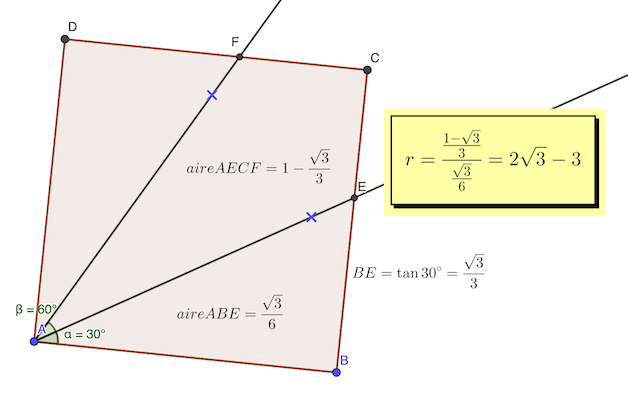
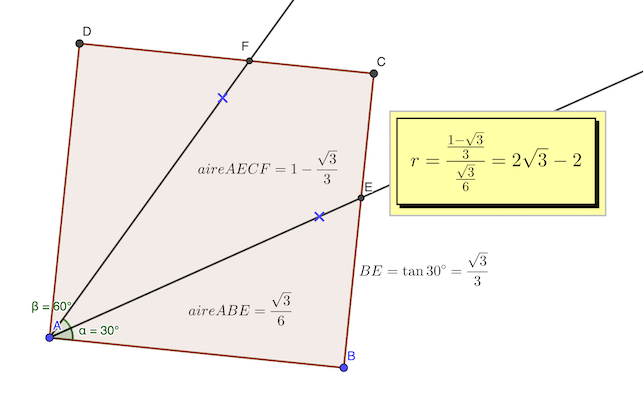
relecture

diff --git a/readme.py b/readme.py
@@ -88,12 +88,19 @@ def create_month(month, year=2021):
                 total_month += 1
 
                 p = Path(month_norm) / f"{d.day:02d}.py"
-                if p.exists():
-                    cols.append(f"[{d.day}]({p}) ⚙")
+
+                if p.exists() and d.day in solutions:
+                    cols.append(f"[{d.day:2d}]({solutions_md}#{d.day}-{month_lower}) [🎮]({p})")
                     done_month += 1
+
+                elif p.exists():
+                    cols.append(f"{d.day:2d} [🎮]({p})")
+                    done_month += 1
+
                 elif d.day in solutions:
-                    cols.append(f"[{d.day}]({solutions_md}#{d.day}-{month_lower})")
+                    cols.append(f"[{d.day:2d}]({solutions_md}#{d.day}-{month_lower})")
                     done_month += 1
+
                 else:
                     cols.append(f"{d.day:2d}")
 

diff --git a/README.md b/README.md
@@ -14,22 +14,31 @@ Chaque semaine, le CNRS propose un de ces défis: [Défis du calendrier mathéma
 
 |Lundi|Mardi|Mercredi|Jeudi|Vendredi|Samedi|Dimanche|
 |---|---|---|---|---|---|---|
-|    |    |    |    | [1](janvier/01.py) ⚙ | *2* | *3* |
-| [4](janvier/README.md#4-janvier) | [5](janvier/05.py) ⚙ | [6](janvier/README.md#6-janvier) | [7](janvier/README.md#7-janvier) | [8](janvier/08.py) ⚙ | *9* | *10* |
-| [11](janvier/README.md#11-janvier) | [12](janvier/README.md#12-janvier) | [13](janvier/README.md#13-janvier) | [14](janvier/14.py) ⚙ | [15](janvier/15.py) ⚙ | *16* | *17* |
-| [18](janvier/README.md#18-janvier) | [19](janvier/README.md#19-janvier) | [20](janvier/README.md#20-janvier) | [21](janvier/21.py) ⚙ | [22](janvier/22.py) ⚙ | *23* | *24* |
-| [25](janvier/README.md#25-janvier) | [26](janvier/README.md#26-janvier) | [27](janvier/27.py) ⚙ | [28](janvier/README.md#28-janvier) | [29](janvier/README.md#29-janvier) | *30* | *31* |
+|    |    |    |    | [ 1](janvier/README.md#1-janvier) [🎮](janvier/01.py) | *2* | *3* |
+| [ 4](janvier/README.md#4-janvier) | [ 5](janvier/README.md#5-janvier) [🎮](janvier/05.py) | [ 6](janvier/README.md#6-janvier) | [ 7](janvier/README.md#7-janvier) |  8 [🎮](janvier/08.py) | *9* | *10* |
+| [11](janvier/README.md#11-janvier) | [12](janvier/README.md#12-janvier) | [13](janvier/README.md#13-janvier) | 14 [🎮](janvier/14.py) | [15](janvier/README.md#15-janvier) [🎮](janvier/15.py) | *16* | *17* |
+| [18](janvier/README.md#18-janvier) | [19](janvier/README.md#19-janvier) | [20](janvier/README.md#20-janvier) | 21 [🎮](janvier/21.py) | 22 [🎮](janvier/22.py) | *23* | *24* |
+| [25](janvier/README.md#25-janvier) | [26](janvier/README.md#26-janvier) | 27 [🎮](janvier/27.py) | [28](janvier/README.md#28-janvier) | [29](janvier/README.md#29-janvier) | *30* | *31* |
+### Avril (6/22)
+
+|Lundi|Mardi|Mercredi|Jeudi|Vendredi|Samedi|Dimanche|
+|---|---|---|---|---|---|---|
+|    |    |    | [ 1](avril/README.md#1-avril) | [ 2](avril/README.md#2-avril) | *3* | *4* |
+|  5 |  6 |  7 |  8 |  9 | *10* | *11* |
+| 12 | 13 | 14 | [15](avril/README.md#15-avril) | 16 | *17* | *18* |
+| 19 | 20 | 21 | 22 | 23 | *24* | *25* |
+| 26 | 27 | [28](avril/README.md#28-avril) | 29 [🎮](avril/29.py) | [30](avril/README.md#30-avril) |    |    |
 ### Juin (21/22)
 
 |Lundi|Mardi|Mercredi|Jeudi|Vendredi|Samedi|Dimanche|
 |---|---|---|---|---|---|---|
-|    | [1](juin/README.md#1-juin) | [2](juin/README.md#2-juin) | [3](juin/README.md#3-juin) | [4](juin/README.md#4-juin) | *5* | *6* |
-| [7](juin/07.py) ⚙ | [8](juin/README.md#8-juin) | [9](juin/09.py) ⚙ | 10 | [11](juin/11.py) ⚙ | *12* | *13* |
-| [14](juin/README.md#14-juin) | [15](juin/15.py) ⚙ | [16](juin/README.md#16-juin) | [17](juin/17.py) ⚙ | [18](juin/README.md#18-juin) | *19* | *20* |
-| [21](juin/README.md#21-juin) | [22](juin/README.md#22-juin) | [23](juin/23.py) ⚙ | [24](juin/README.md#24-juin) | [25](juin/25.py) ⚙ | *26* | *27* |
+|    | [ 1](juin/README.md#1-juin) | [ 2](juin/README.md#2-juin) | [ 3](juin/README.md#3-juin) | [ 4](juin/README.md#4-juin) | *5* | *6* |
+|  7 [🎮](juin/07.py) | [ 8](juin/README.md#8-juin) |  9 [🎮](juin/09.py) | 10 | 11 [🎮](juin/11.py) | *12* | *13* |
+| [14](juin/README.md#14-juin) | 15 [🎮](juin/15.py) | [16](juin/README.md#16-juin) | 17 [🎮](juin/17.py) | [18](juin/README.md#18-juin) | *19* | *20* |
+| [21](juin/README.md#21-juin) | [22](juin/README.md#22-juin) | 23 [🎮](juin/23.py) | [24](juin/README.md#24-juin) | 25 [🎮](juin/25.py) | *26* | *27* |
 | [28](juin/README.md#28-juin) | [29](juin/README.md#29-juin) | [30](juin/README.md#30-juin) |    |    |    |    |
 
 ### Avancement
 
-Nombre de solutions: 42 / 261
+Nombre de solutions: 48 / 261
 

diff --git a/juin/README.md b/juin/README.md
@@ -62,9 +62,9 @@ L'aire d'un carré est 1 cm², l'aire d'un triangle √3/4 cm².
 
 L'hexagone est donc constitué quatre triangles et trois carrés.
 
-aire = `4 x √3/4 + 1`
+aire = `4 x √3/4 + 3 × 1`
 
-> réponse: 1 + √3 cm²
+> réponse: 3 + √3 cm²
 
 ## 8 Juin
 
@@ -72,7 +72,7 @@ aire = `4 x √3/4 + 1`
 
 Toutes les autres façons sont similaires à une rotation ou une symétrique près.
 
-> réponse: 4
+> réponse: 4 (ou 4×7=28 en tenant compte des symétries)
 
 
 
@@ -93,11 +93,11 @@ La "petite" diagonale fait 4m.
 Pour un carré de côté a, la formule de cette "petite" diagonale est:
 `√(a² + (a/2)²) = a × √(1+1/4) = a × √5 / 2`
 
-Ici `a = 4 / (2 / √5) = 2 √5 m²`.
+Ici `a = 4 / (√5 / 2) = 8 / √5 m`.
 
-La surface de la piscine est donc: `5 a² = 5 × (2 √5)² = 5 × 4 × 5 = 100 m²`
+La surface de la piscine est donc: `5 a² = 5 × (8 / √5)² = 5 × 8² / 5 = 64 m²`
 
-> réponse: 100 m²
+> réponse: 64 m²
 
 
 ## 18 Juin
@@ -116,9 +116,14 @@ D'où: `5^(1/5) < 2^(1/2)`.
 
 ## 21 Juin
 
-Antoine peut mentir et Xavier dire la vérité. Aucun des deux engagements n'est rompu.
+Antoine peut mentir et Xavier dire la vérité. Aucune des deux déclarations n'est erronée:
+
+-  Antoine: « Quand je dis la vérité, toi aussi ». Si Antoine ment, Xavier peut faire ce qu'il veut.
+-  Xavier: « Quand je ments, toi aussi ». Si Xavier dit la vérité, Antoine peut mentir.
 
 > réponse: oui
+
+PS: problème mal formulé... la solution officielle e
 
 ## 22 Juin
 
@@ -129,7 +134,7 @@ Antoine peut mentir et Xavier dire la vérité. Aucun des deux engagements n'est
 - coefficient directeur (MP): -5
 - équation médiatrice (doit passer par M): `y = -5*(x-7.5)+7.5 = -5x + 5 * 7.5 + 7.5 = -5x+45`
 
-D'où les coordonnées du point P: (9, 0)  (solution de l'équation `-5x+45=0`)
+D'où les coordonnées du point P: (9, 0)  (solution de l'équation `-5x+45 = 0`)
 
 > réponse: 6 m
 
@@ -149,7 +154,7 @@ solve avec WolframAlpha de l'équation: x^4-2x^3-7x^2-2x+1=0
 
 ## 28 Juin
 
-La somme des anglets des sommets est 180°
+La somme des angles des sommets est 180°
 
 > réponse: `180°`
 

diff --git a/janvier/README.md b/janvier/README.md
@@ -1,5 +1,12 @@
 # Calendrier Mathématique Janvier 2021
 
+
+## 1 Janvier
+
+cf. [programme](01.py) Python
+
+> réponse: 9 nombres: {97, 37, 71, 73, 11, 13, 79, 17, 31}
+
 ## 4 Janvier
 
 _Mise en équation_
@@ -10,6 +17,12 @@ _Mise en équation_
 Calcul de la solution avec un [notebook](https://www.wolframalpha.com/input/?i=a%3D2+b%2Ca%3Dc%2B5%2Ca%2Bb%2Bc%3D70) WolframAlpha.
 
 > réponse: martina = 30, roger = 15, raphaël = 25
+
+## 5 Janvier
+
+Cf. [programme](05.py) Python.
+
+> réponse: p-n = -1
 
 ## 6 Janvier
 
@@ -106,6 +119,12 @@ De manière exhaustive:
 > réponse: Louis et Bernard
 
 
+## 15 Janvier
+
+cf. [programme](15.py) en Python
+
+> réponse: 1/1 + 1/2021
+
 ## 18 Janvier
 
 - nombre avec 11 diviseurs: p^10  (p premier)
@@ -132,11 +151,28 @@ La figure est composée de:
 
 ## 20 Janvier
 
-quantité d'eau perdue lors de la déshydratation: H × 0.9 - H × 0.6 = 15 kg
+```
+soit M la masse totale des haricots
+soit m la masse sèche des haricots
+soit e la masse d'eau des haricots
 
-donc H = 15 / 0.3 = 50
+initial:    e = 0.9 M           90% d'eau dans les haricots
+            m = 0.1 M           et donc 10% qui n'est pas de l'eau
 
-> résultat: 50 kg
+après:      e' = e1 - 15        deshydratation de 15 l
+            e' = 0.6 (M-15)     60% d'eau dans les haricots
+            m = 0.4 (M - 15)    et donc 40% quiu n'est pas de l'eau
+
+on a :
+    0.9 × M - 15 = 0.6 (M - 15)
+
+ou bien:
+    0.1 M = 0.4 (M - 15)
+
+on trouve M = 20
+```
+
+> résultat: 20 kg
 
 
 ## 25 Janvier

diff --git a/avril/README.md b/avril/README.md
@@ -19,9 +19,19 @@ soit x ∈ [0, 1] et y ∈ [0, 1]
 
 min(x+2y) = min(x+√(1-x²))
 
-la fonction a deux minimas: x=0 et x=1, et un maximum x=√2/2
+la fonction a deux minimas: x=0 et x=1, et un maximum en x=√2/2
 
 > réponse: 1
+
+
+## 15 Avril
+
+![schéma](15.png)
+
+[Notebook GeoGebra](15.ggb)
+
+> réponse: 2 √3 - 2
+
 
 ## 28 Avril
 
@@ -30,14 +40,6 @@ la fonction a deux minimas: x=0 et x=1, et un maximum x=√2/2
 A moins de travailler en base 48, on ne peut trouver de chiffres décimaux de 1 à 9 qui décomposent 2021.
 
 > réponse: non
-
-## 15 Avril
-
-![schéma](15.png)
-
-[Notebook GeoGebra](15.ggb)
-
-> réponse: 2 √3 - 3
 
 ## 30 Avril
 
@@ -59,4 +61,6 @@ Le polynome est le produit de 5 nombres consécutifs, 120 = 5! est le produit de
 - n+1 sera divisible par 3 ou 4 ou 5 ou 2
 - etc.
 
-> réponse : |n| ≥ 3
+Si -2 ≤ n ≤ 2, alors le polynome est nul, il est aussi divisible par 120.
+
+> réponse : ∀ n
